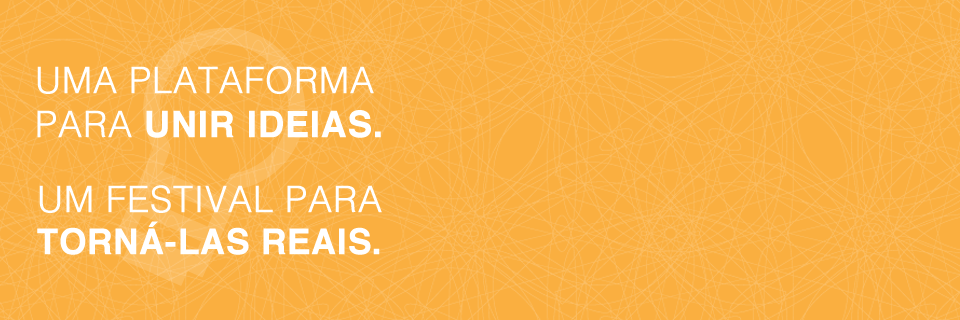
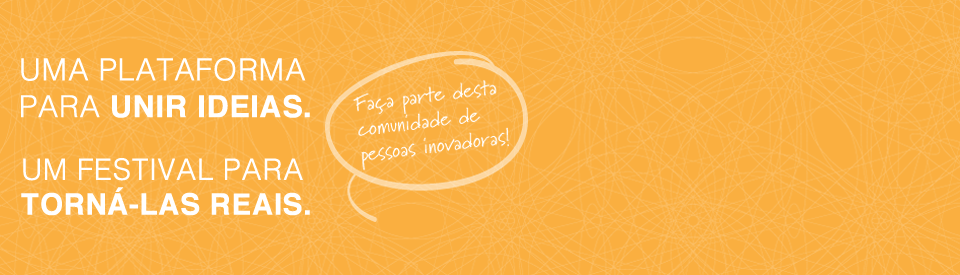
Finished naty layout changes

diff --git a/app/assets/stylesheets/homepage.css.sass b/app/assets/stylesheets/homepage.css.sass
@@ -3,9 +3,9 @@ body[data-action="Index"][data-controller-name="Ideas"]
     height: auto
 
   #introduction
-    margin: 20px 0 40px 0
+    margin: 20px 0 30px 0
     padding: 10px 0
-    height: 300px
+    height: 275px
     background:
       image: url(asset_path("banner.png", "image"))
       repeat: no-repeat
@@ -13,11 +13,10 @@ body[data-action="Index"][data-controller-name="Ideas"]
     clear: both
 
     .button.start
-      float: left
       position: absolute
-      left: 185px
-      padding: 15px 25px
-      bottom: 17px
+      bottom: 42px
+      left: 395px
+      padding: 13px
       font-size: 1.4em
     section.text_intro,
     section.video_intro
@@ -31,8 +30,17 @@ body[data-action="Index"][data-controller-name="Ideas"]
         margin-bottom: -2px
       .border
         float: right
-        border: 3px solid #FFF
-        +box-shadow(0 1px 2px #aaa)
+        background: #111
+        padding: 7px 5px
+
+        a.more
+          display: block
+          text-align: right
+          padding: 6px 3px 0
+          color: white
+          font:
+            weight: lighter
+            size: 1.2em
 
   .newsboard
     background: $yellow

diff --git a/app/assets/stylesheets/sidebar.css.sass b/app/assets/stylesheets/sidebar.css.sass
@@ -8,7 +8,7 @@
 
 aside
   h3
-    margin: 40px 0 0 0
+    margin: 20px 0 0 0
     color: #000
     text-transform: uppercase
     font-weight: lighter
@@ -26,7 +26,7 @@ aside
       background:
         color: #FFF
       border: 1px solid #CCC
-      margin-bottom: 20px
+      margin-bottom: 30px
       +border-radius(3px)
       li
         +list_link
